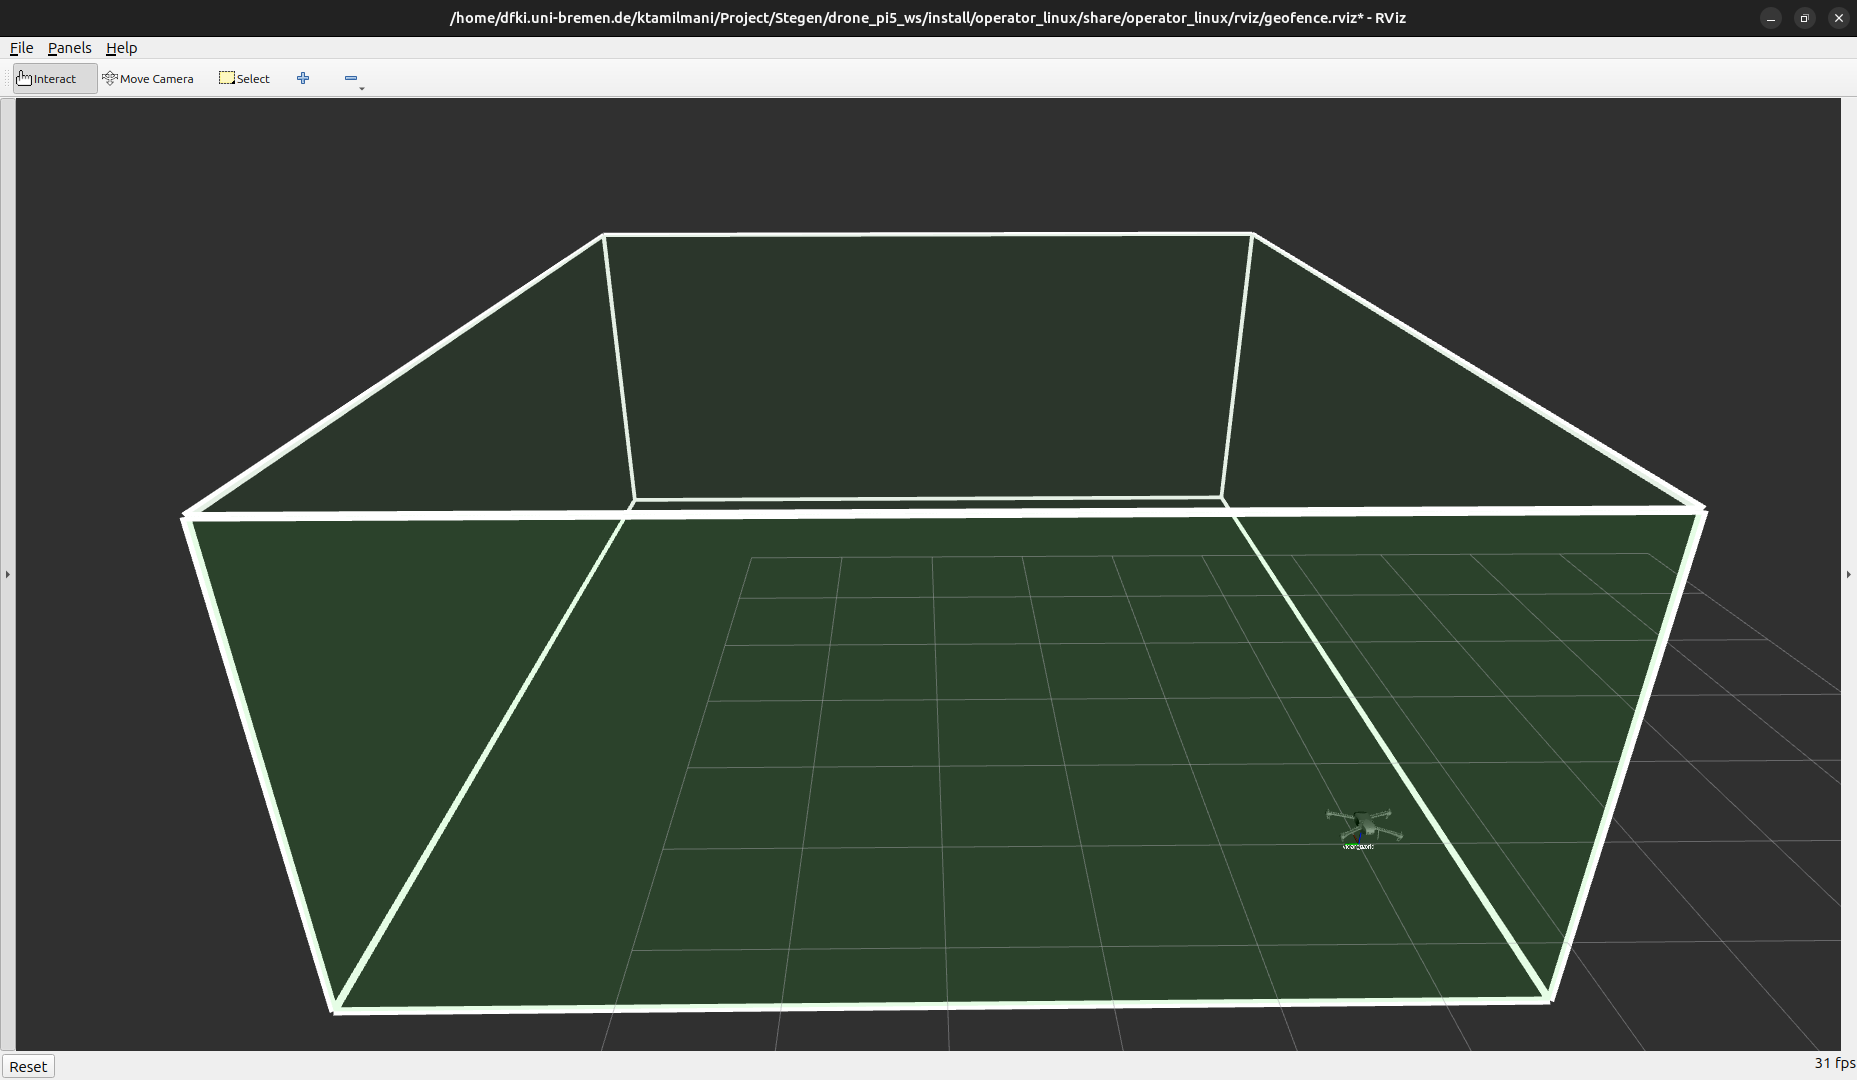
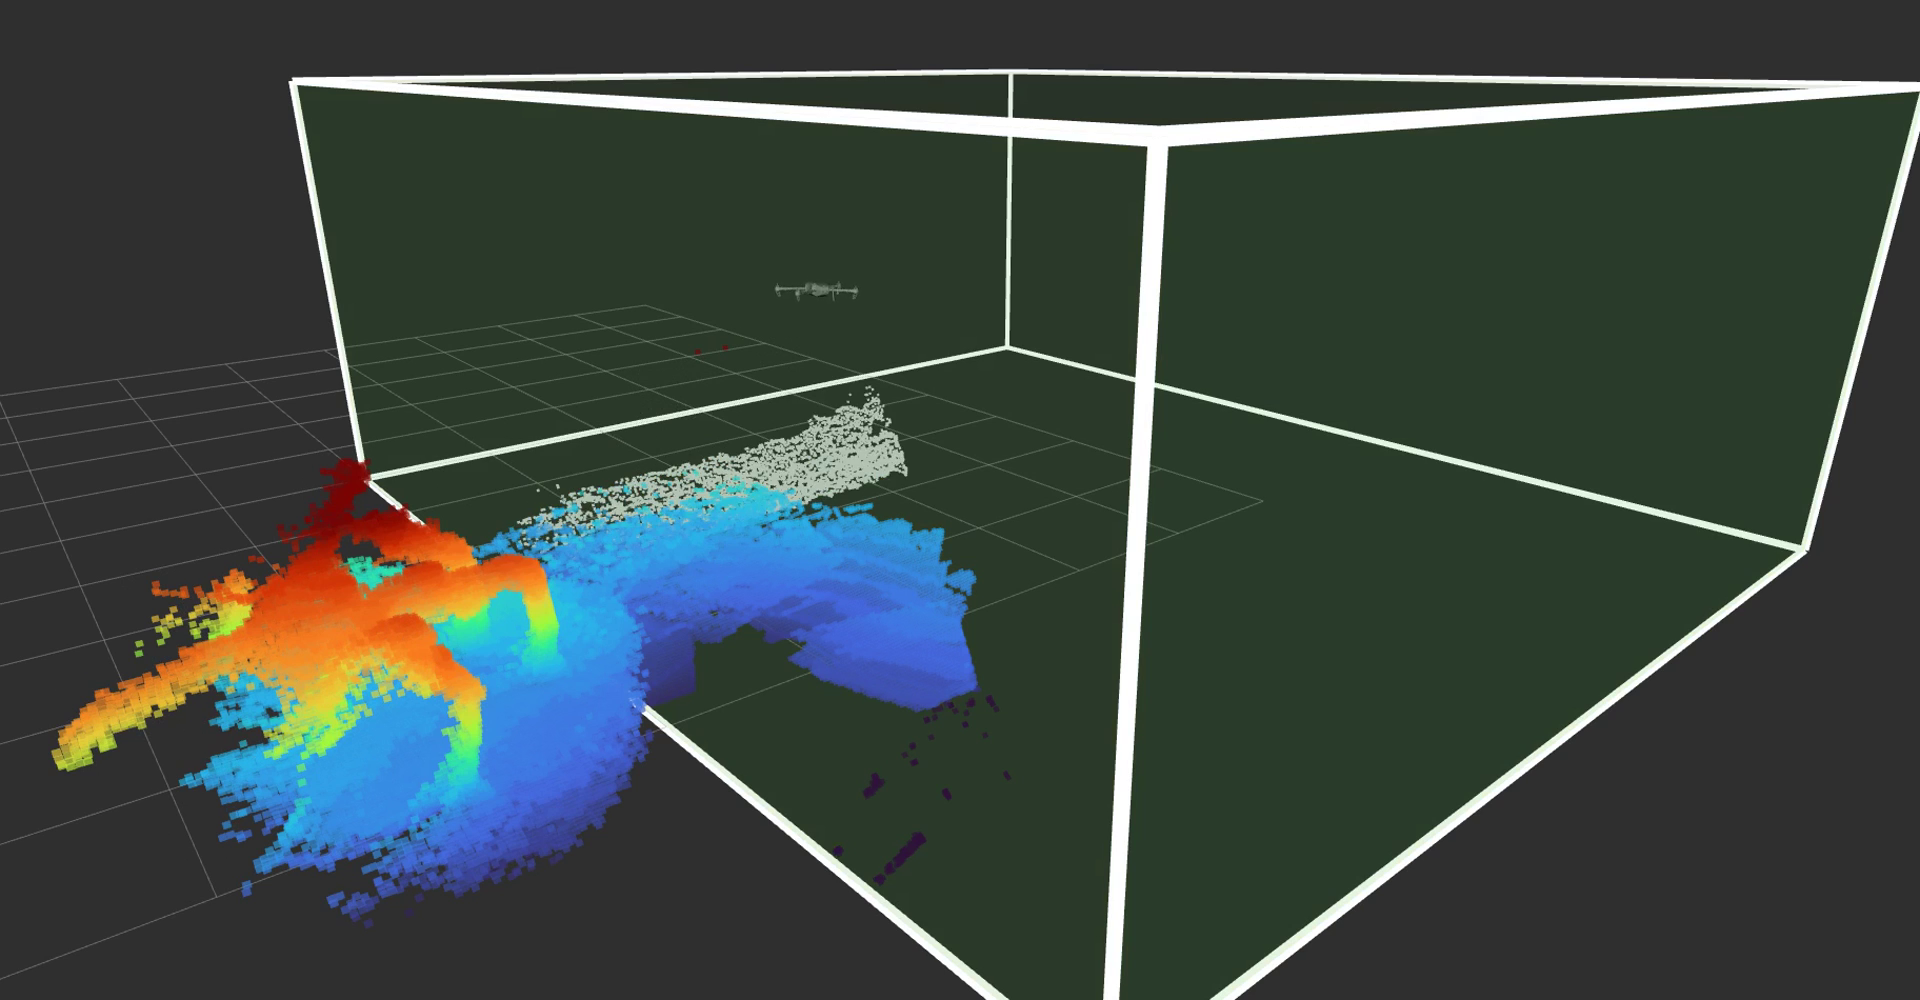
updated stegen project with depth mapping, new video and thumbnail

diff --git a/script.js b/script.js
@@ -183,13 +183,15 @@ const projects = [
     location: 'Bremen, Germany',
     icon: '✈',
     title: 'UAV Software Development',
-    shortDesc: 'Motion tracking, geofencing, and a simulation-based safety monitor for a drone platform at a robotics startup.',
+    shortDesc: 'Motion tracking, geofencing, and depth-camera mapping for a drone platform at a robotics startup.',
     fullDesc: [
-      'Developing software components for a UAV platform, running on the drone\'s onboard Raspberry Pi on top of its existing flight controller. Implemented a <strong>Vicon-based motion capture system</strong> for precise indoor tracking of the drone, and developed <strong>geofencing</strong> to enforce operational boundaries. Currently building a <strong>simulation / digital twin</strong> (Gazebo with ArduPilot SITL) to validate flight scripts before deploying them to the real drone.',
-      { video: 'https://drive.google.com/file/d/1PENmI7xMuvOrq8H5OyLg0Osvz5LW5-fj/preview', ratio: '1920/1080', caption: 'Gazebo + ArduPilot SITL simulation: waypoint navigation script arming and flying the drone within the RViz geofence, alongside the satellite map view' },
+      'Developing software components for a UAV platform, running on the drone\'s onboard Raspberry Pi on top of its existing flight controller. Implemented a <strong>Vicon-based motion capture system</strong> for precise indoor tracking of the drone, and developed <strong>geofencing</strong> (a 3D boundary with a warning margin, live status and RViz visualization) to enforce operational boundaries. Built a <strong>simulation / digital twin</strong> (Gazebo with ArduPilot SITL) to validate flight scripts before deploying them to the real drone, and wrote <strong>autonomous flight scripts</strong> (arming and waypoint navigation through MAVROS) that keep the drone inside the geofence. Developed a <strong>depth map builder</strong> that fuses the onboard depth camera (Intel RealSense) with the Vicon pose into a 3D voxel map with a confidence value per voxel; it runs on the Raspberry Pi, saves the map on its own and streams it to RViz on the operator laptop. The whole onboard stack (pose, geofence, depth camera, mapping, rosbag recording) starts with one launch file.',
+      { video: 'https://drive.google.com/file/d/1w-MQECXEJZUmXnPcQqZu2H4vmO0j0UiJ/preview', ratio: '1280/1440', caption: 'Indoor flight: annotated drone camera view with the geofence border and distance to the fence (top), and the live depth map with the drone and the geofence in RViz (bottom)' },
+      { img: 'assets/031_uav_stegen/map_overview.png', caption: 'Depth map built from the flight, with the flight path coloured by geofence state (purple: safe, magenta: close to the fence); map colour shows height' },
+      { img: 'assets/031_uav_stegen/map_top_down.png', caption: 'Top-down view of the finished map with the geofence outline and the flight path' },
     ],
     images: ['assets/031_uav_stegen/thumbnail.png'],
-    tags: ['Python', 'ROS2', 'MAVROS', 'Raspberry Pi', 'Vicon', 'Gazebo', 'OpenSCAD', 'Simulation'],
+    tags: ['Python', 'ROS2', 'MAVROS', 'Raspberry Pi', 'Vicon', 'Depth Mapping', 'Gazebo', 'OpenSCAD', 'Simulation'],
     links: [],
   },
 
@@ -424,7 +426,7 @@ function openModal(p) {
 
   const descHtml = p.fullDesc.map(item => {
     if (typeof item === 'string') return `<p>${item}</p>`;
-    if (item.video) return `<figure class="modal-inline-video"><iframe src="${item.video}" style="aspect-ratio:${item.ratio || '1360/696'}" allow="autoplay" allowfullscreen></iframe>${item.caption ? `<figcaption>${item.caption}</figcaption>` : ''}</figure>`;
+    if (item.video) return `<figure class="modal-inline-video"><iframe src="${item.video}" style="aspect-ratio:${item.ratio || '1360/696'}${item.maxWidth ? `;max-width:${item.maxWidth};margin:0 auto` : ''}" allow="autoplay" allowfullscreen></iframe>${item.caption ? `<figcaption>${item.caption}</figcaption>` : ''}</figure>`;
     return `<figure class="modal-inline-img"><img src="${item.img}" alt="${item.caption || ''}" />${item.caption ? `<figcaption>${item.caption}</figcaption>` : ''}</figure>`;
   }).join('');
 
